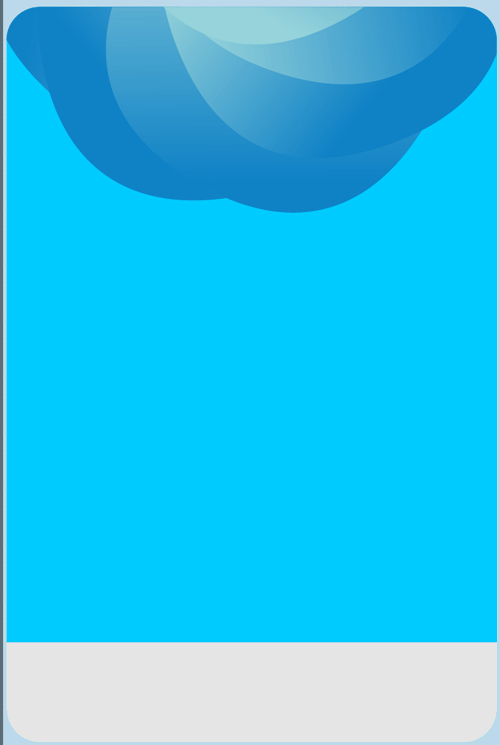
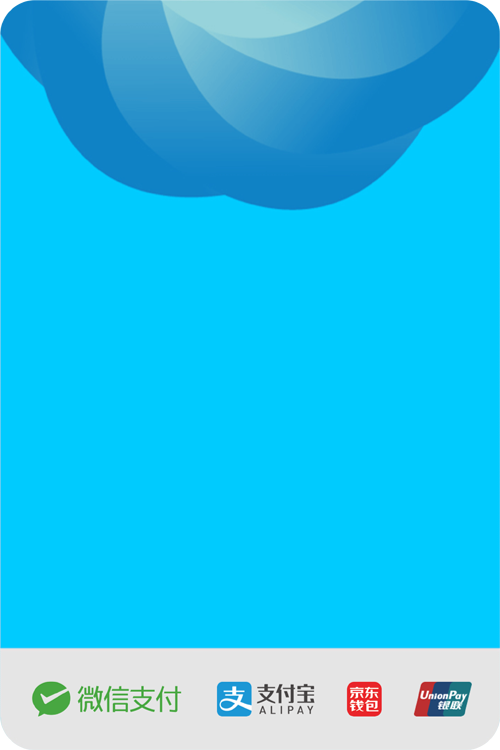
a
a

diff --git a/application/views/register/success.php b/application/views/register/success.php
@@ -9,7 +9,7 @@
             <img class="img-responsive center-block" src="<? echo SITE_URL;?>images/shihuijun_logo.png">
         </div>
         <div class="col-xs-6 col-md-6" style="height:10%;margin-top: 11%">
-            <img class="img-responsive center-block" src="<? echo SITE_URL;?>images/deshuo_logo.png">
+            <img class="img-responsive center-block" width="70%"  src="<? echo SITE_URL;?>images/deshuo_logo.png">
         </div>
         <div class="col-xs-8 col-md-8 col-sm-offset-2 col-xs-offset-2" style="height:10%;">
             <img class="img-responsive center-block" src="<? echo SITE_URL;?>images/yiyika_logo.png">
@@ -20,11 +20,11 @@
              </div>
              <p class="col-xs-12 col-md-12" style="height:10%;text-align:center;color:black">
                 <? echo $business_code;?></br>
-                <a href="<? echo $href_a;?>" class="btn-info btn active" role="button">点击注册</a>
+                <a href="<? echo $href_a;?>" class="btn-info btn active" role="button">注册|使用</a>
              </p>
         </div>
 
-        <div class="col-xs-12 col-md-12" style="margin-top: 13%">
+        <!-- <div class="col-xs-12 col-md-12" style="margin-top: 13%">
 
           <div class="col-xs-4 col-md-4" >
                 <img class="img-responsive center-block" src="<? echo SITE_URL;?>images/weixin_logo.png">
@@ -36,7 +36,7 @@
           <div class="col-xs-4 col-md-4">
                 <img class="img-responsive center-block"  width="60%"  src="<? echo SITE_URL;?>images/yinlian_logo.png">
           </div>
-        </div>
+        </div> -->
     </div>
 
 <div id="wrapper"><!-- 最外层部分 -->

diff --git a/application/views/register/getback.php b/application/views/register/getback.php
@@ -35,7 +35,7 @@
 
               <div class="form-group">
                 <div class="col-sm-offset-1 col-sm-10">
-                  <button type="button" class="btn btn-success" id="register">找回</button>
+                  <button type="button" class="btn btn-success" id="register">提取</button>
                 </div>
               </div>
 
@@ -46,7 +46,7 @@
             </div>
 
         </div>
-        <div class="col-xs-12 col-md-12" style="margin-top: 13%" >
+<!--         <div class="col-xs-12 col-md-12" style="margin-top: 13%" >
           <div class="col-xs-4 col-md-4">
                 <img class="img-responsive center-block" src="<? echo SITE_URL;?>images/weixin_logo.png">
           </div>
@@ -57,7 +57,7 @@
           <div class="col-xs-4 col-md-4">
                 <img class="img-responsive center-block" width="60%" src="<? echo SITE_URL;?>images/yinlian_logo.png">
           </div>
-        </div>
+        </div> -->
     </div>
 
 <div id="wrapper"><!-- 最外层部分 -->
@@ -138,7 +138,7 @@
             var dataObj=jQuery.parseJSON(response);
             if(dataObj.code==0)
             {
-              alert("找回成功");
+              alert("提取成功");
               window.location.href=SITE_URL+'register/success?business_id='+ dataObj.data; 
 
             }else

diff --git a/application/views/register/index.php b/application/views/register/index.php
@@ -54,7 +54,7 @@
             </div>
 
         </div>
-        <div class="col-xs-12 col-md-12" style="margin-top: 13%" >
+<!--         <div class="col-xs-12 col-md-12" style="margin-top: 13%" >
           <div class="col-xs-4 col-md-4">
                 <img class="img-responsive center-block" src="<? echo SITE_URL;?>images/weixin_logo.png">
           </div>
@@ -65,7 +65,7 @@
           <div class="col-xs-4 col-md-4">
                 <img class="img-responsive center-block" width="60%" src="<? echo SITE_URL;?>images/yinlian_logo.png">
           </div>
-        </div>
+        </div> -->
     </div>
 
 <div id="wrapper"><!-- 最外层部分 -->

diff --git a/index.php b/index.php
@@ -63,6 +63,7 @@
  * Different environments will require different levels of error reporting.
  * By default development will show errors but testing and live will hide them.
  */
+
 switch (ENVIRONMENT)
 {
 	case 'development':
@@ -223,7 +224,6 @@ switch (ENVIRONMENT)
 
 	// Path to the system folder
 	define('BASEPATH', str_replace('\\', '/', $system_path));
-
 	// Path to the front controller (this file)
 	define('FCPATH', dirname(__FILE__).'/');
 
